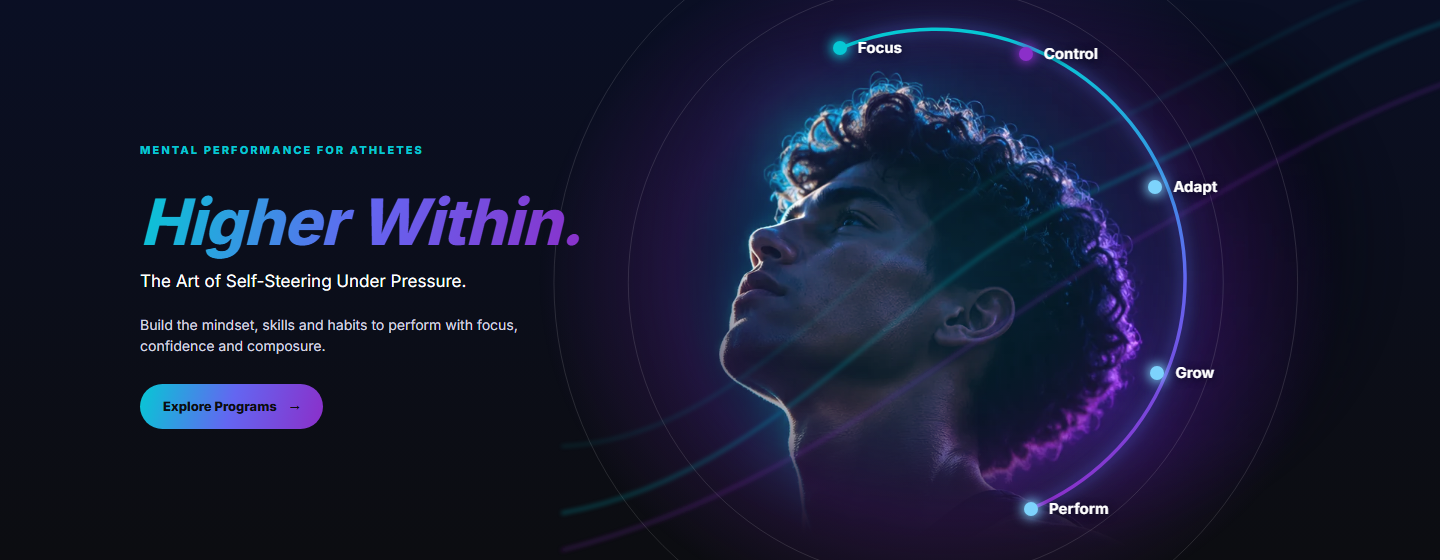
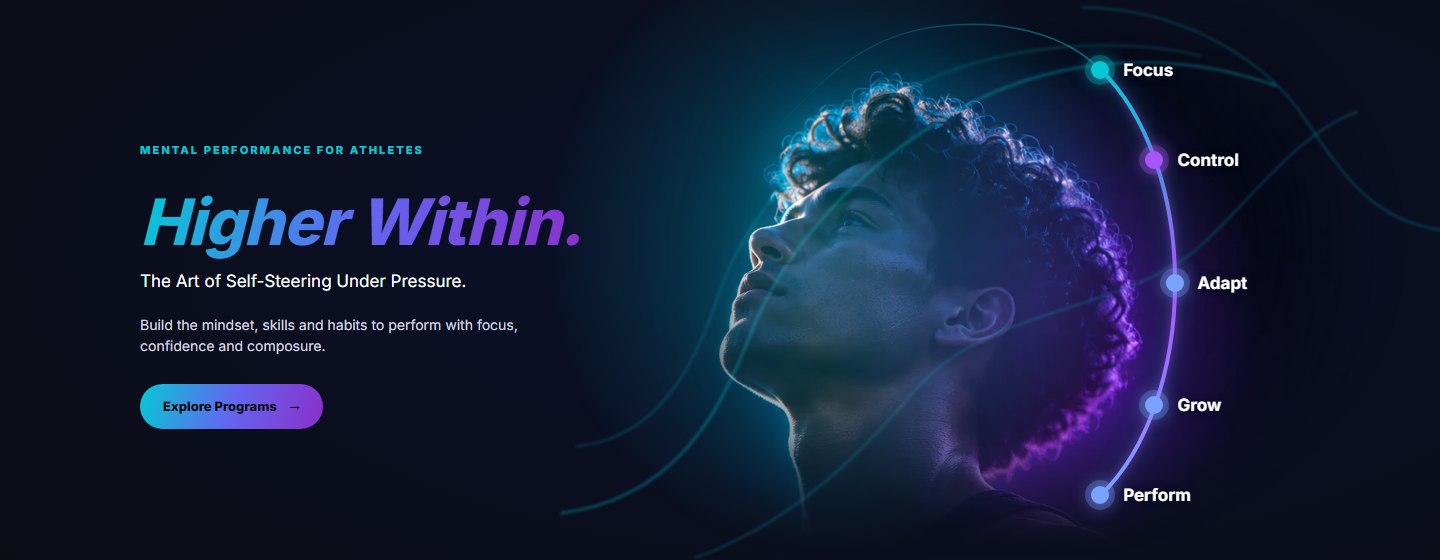
feat(landing): refine hero - right-hand arc with dot column, dual glows, curved swirls

diff --git a/backend/templates/landing/index.html b/backend/templates/landing/index.html
@@ -75,16 +75,13 @@
 
           <svg class="hero-fx" viewBox="0 100 1122 753" preserveAspectRatio="none" aria-hidden="true">
             <defs>
-              <filter id="fx-blur" x="-20%" y="-20%" width="140%" height="140%"><feGaussianBlur stdDeviation="3"/></filter>
+              <filter id="fx-blur" x="-20%" y="-20%" width="140%" height="140%"><feGaussianBlur stdDeviation="2.2"/></filter>
             </defs>
-            <g fill="none" filter="url(#fx-blur)" vector-effect="non-scaling-stroke">
-              <path d="M -60 790 C 230 740 400 470 650 360 S 980 170 1190 110" stroke="#06c8d4" stroke-opacity=".32" stroke-width="3" vector-effect="non-scaling-stroke"/>
-              <path d="M -60 840 C 260 760 470 560 700 430 S 1010 250 1190 190" stroke="#8b2fc9" stroke-opacity=".30" stroke-width="3" vector-effect="non-scaling-stroke"/>
-              <path d="M -60 700 C 200 690 360 400 600 300 S 920 110 1190 40" stroke="#06c8d4" stroke-opacity=".20" stroke-width="2" vector-effect="non-scaling-stroke"/>
-            </g>
-            <g fill="none" stroke="#fff" stroke-opacity=".12">
-              <circle cx="430" cy="480" r="400" vector-effect="non-scaling-stroke" stroke-width="1"/>
-              <circle cx="430" cy="480" r="500" vector-effect="non-scaling-stroke" stroke-width="1"/>
+            <g fill="none" stroke="#06c8d4" stroke-linecap="round" filter="url(#fx-blur)">
+              <path d="M -60 790 C 90 770 150 660 190 560 C 235 440 330 330 470 250 C 600 175 760 165 900 215" stroke-opacity=".42" stroke-width="2.2" vector-effect="non-scaling-stroke"/>
+              <path d="M -40 700 C 70 690 120 590 150 500 C 190 380 300 260 450 200 C 560 158 700 150 800 175" stroke-opacity=".30" stroke-width="1.6" vector-effect="non-scaling-stroke"/>
+              <path d="M 120 850 C 260 800 350 700 420 620 C 520 510 700 520 800 430 C 880 355 930 280 1010 250" stroke-opacity=".30" stroke-width="1.8" vector-effect="non-scaling-stroke"/>
+              <path d="M 640 110 C 760 110 880 170 940 260 C 1000 350 1040 400 1130 410" stroke-opacity=".34" stroke-width="1.6" vector-effect="non-scaling-stroke"/>
             </g>
           </svg>
 
@@ -95,22 +92,32 @@
 
           <svg class="hero-arc" viewBox="0 100 1122 753" preserveAspectRatio="none" aria-hidden="true">
             <defs>
-              <linearGradient id="arc-grad" gradientUnits="userSpaceOnUse" x1="0" y1="165" x2="0" y2="784">
+              <linearGradient id="arc-grad" gradientUnits="userSpaceOnUse" x1="0" y1="194" x2="0" y2="766">
                 <stop offset="0" stop-color="#06c8d4"/>
-                <stop offset=".5" stop-color="#6366f1"/>
-                <stop offset="1" stop-color="#8b2fc9"/>
+                <stop offset=".5" stop-color="#a855f7"/>
+                <stop offset="1" stop-color="#7aa2ff"/>
+              </linearGradient>
+              <linearGradient id="arc-faint" gradientUnits="userSpaceOnUse" x1="665" y1="0" x2="215" y2="0">
+                <stop offset="0" stop-color="#06c8d4" stop-opacity=".6"/>
+                <stop offset="1" stop-color="#06c8d4" stop-opacity="0"/>
               </linearGradient>
             </defs>
-            <path d="M 315 165 A 335 335 0 0 1 572 784" fill="none" stroke="url(#arc-grad)"
-                  stroke-width="3.5" stroke-linecap="round" vector-effect="non-scaling-stroke"/>
+            <!-- thin, fading cyan line over the top of the head -->
+            <path class="arc-top" d="M 665 194 C 620 148 540 125 450 135 S 300 190 215 290"
+                  fill="none" stroke="url(#arc-faint)" stroke-width="1.6" stroke-linecap="round"
+                  vector-effect="non-scaling-stroke"/>
+            <!-- bright right-hand arc carrying the five dots (1 o'clock to 5 o'clock) -->
+            <path class="arc-main" d="M 665 194 A 200 330 0 0 1 665 766"
+                  fill="none" stroke="url(#arc-grad)" stroke-width="4" stroke-linecap="round"
+                  vector-effect="non-scaling-stroke"/>
           </svg>
 
           <ul class="hero-dots">
-            <li class="dot dot-cyan" style="--x:315;--y:165"><i></i><span>Focus</span></li>
-            <li class="dot dot-violet" style="--x:565;--y:173"><i></i><span>Control</span></li>
-            <li class="dot dot-blue" style="--x:739;--y:352"><i></i><span>Adapt</span></li>
-            <li class="dot dot-blue" style="--x:742;--y:601"><i></i><span>Grow</span></li>
-            <li class="dot dot-blue" style="--x:572;--y:784"><i></i><span>Perform</span></li>
+            <li class="dot dot-cyan" style="--x:665;--y:194"><i></i><span>Focus</span></li>
+            <li class="dot dot-violet" style="--x:738;--y:315"><i></i><span>Control</span></li>
+            <li class="dot dot-blue" style="--x:765;--y:480"><i></i><span>Adapt</span></li>
+            <li class="dot dot-blue" style="--x:738;--y:645"><i></i><span>Grow</span></li>
+            <li class="dot dot-blue" style="--x:665;--y:766"><i></i><span>Perform</span></li>
           </ul>
         </div>
       </div>

diff --git a/backend/core/static/landing/css/overrides.css b/backend/core/static/landing/css/overrides.css
@@ -7,7 +7,7 @@
 .hero {
   position: relative;
   min-height: 560px;
-  background: linear-gradient(180deg, #0a0f24 0%, #0c0d11 100%);
+  background: radial-gradient(ellipse 85% 95% at 62% 45%, #0a0f24 35%, #0c0d11 100%);
 }
 .hero-grid {
   display: block;
@@ -56,16 +56,16 @@
   isolation: isolate;
 }
 
-/* Soft glow behind the head: teal/blue core into violet at the edges. */
+/* Two large, soft glows (box is 160% x 150% of the stage, so no hard edges):
+   teal-cyan behind the face (left/front), violet behind the back of the head. */
 .hero-glow {
   position: absolute;
   inset: -25% -30% -25% -30%;
   background:
-    radial-gradient(ellipse 42% 58% at 44% 50%,
-      rgba(14, 79, 110, .45) 0%,
-      rgba(14, 79, 110, .30) 22%,
-      rgba(75, 29, 122, .35) 48%,
-      rgba(75, 29, 122, 0) 72%);
+    radial-gradient(ellipse 31% 53% at 35.6% 46%,
+      rgba(10, 165, 192, .40) 0%, rgba(10, 165, 192, .18) 40%, rgba(10, 165, 192, 0) 70%),
+    radial-gradient(ellipse 24% 43% at 51.3% 52.7%,
+      rgba(124, 58, 237, .35) 0%, rgba(124, 58, 237, .16) 42%, rgba(124, 58, 237, 0) 70%);
   z-index: 0;
 }
 
@@ -106,10 +106,11 @@
 }
 
 /* Arc + dots */
-.hero-arc {
-  z-index: 3;
-  filter: drop-shadow(0 0 7px rgba(99, 102, 241, .75)) drop-shadow(0 0 16px rgba(6, 200, 212, .35));
+.hero-arc { z-index: 3; }
+.hero-arc .arc-main {
+  filter: drop-shadow(0 0 6px rgba(168, 85, 247, .6)) drop-shadow(0 0 14px rgba(6, 200, 212, .35));
 }
+.hero-arc .arc-top { opacity: .9; }
 .hero-dots {
   position: absolute;
   inset: 0;
@@ -127,28 +128,29 @@
 }
 .hero-dots .dot i {
   position: absolute;
-  width: 14px;
-  height: 14px;
-  left: -7px;
-  top: -7px;
+  width: 18px;
+  height: 18px;
+  left: -9px;
+  top: -9px;
   border-radius: 50%;
-  background: var(--dot, #7dd3fc);
-  box-shadow: 0 0 12px 2px var(--dot, #7dd3fc);
+  background: rgb(var(--dot));
+  box-shadow: 0 0 0 6px rgba(var(--dot), .28), 0 0 18px 4px rgba(var(--dot), .45);
 }
 .hero-dots .dot span {
   position: absolute;
-  left: 18px;
+  left: 23px;            /* 9px dot radius + 14px gap */
   top: 0;
   transform: translateY(-50%);
   color: #fff;
-  font-size: 15px;
+  font-size: 17px;
   font-weight: 600;
+  line-height: 1;
   white-space: nowrap;
-  text-shadow: 0 1px 8px rgba(5, 8, 20, .8);
+  text-shadow: 0 1px 8px rgba(5, 8, 20, .85);
 }
-.dot-cyan   { --dot: #06c8d4; }
-.dot-violet { --dot: #8b2fc9; }
-.dot-blue   { --dot: #7dd3fc; }
+.dot-cyan   { --dot: 6, 200, 212; }
+.dot-violet { --dot: 168, 85, 247; }
+.dot-blue   { --dot: 122, 162, 255; }
 
 /* ── Narrower desktops / tablets: stage sized by width, centred vertically ── */
 @media (max-width: 1100px) {
@@ -187,6 +189,6 @@
     width: 100%;
     height: auto;
   }
-  .hero-dots .dot i { width: 10px; height: 10px; left: -5px; top: -5px; box-shadow: 0 0 8px 1px var(--dot); }
-  .hero-dots .dot span { left: 13px; font-size: 11px; }
+  .hero-dots .dot i { width: 11px; height: 11px; left: -5.5px; top: -5.5px; box-shadow: 0 0 0 3px rgba(var(--dot), .28), 0 0 10px 2px rgba(var(--dot), .45); }
+  .hero-dots .dot span { left: 14px; font-size: 12px; }
 }
